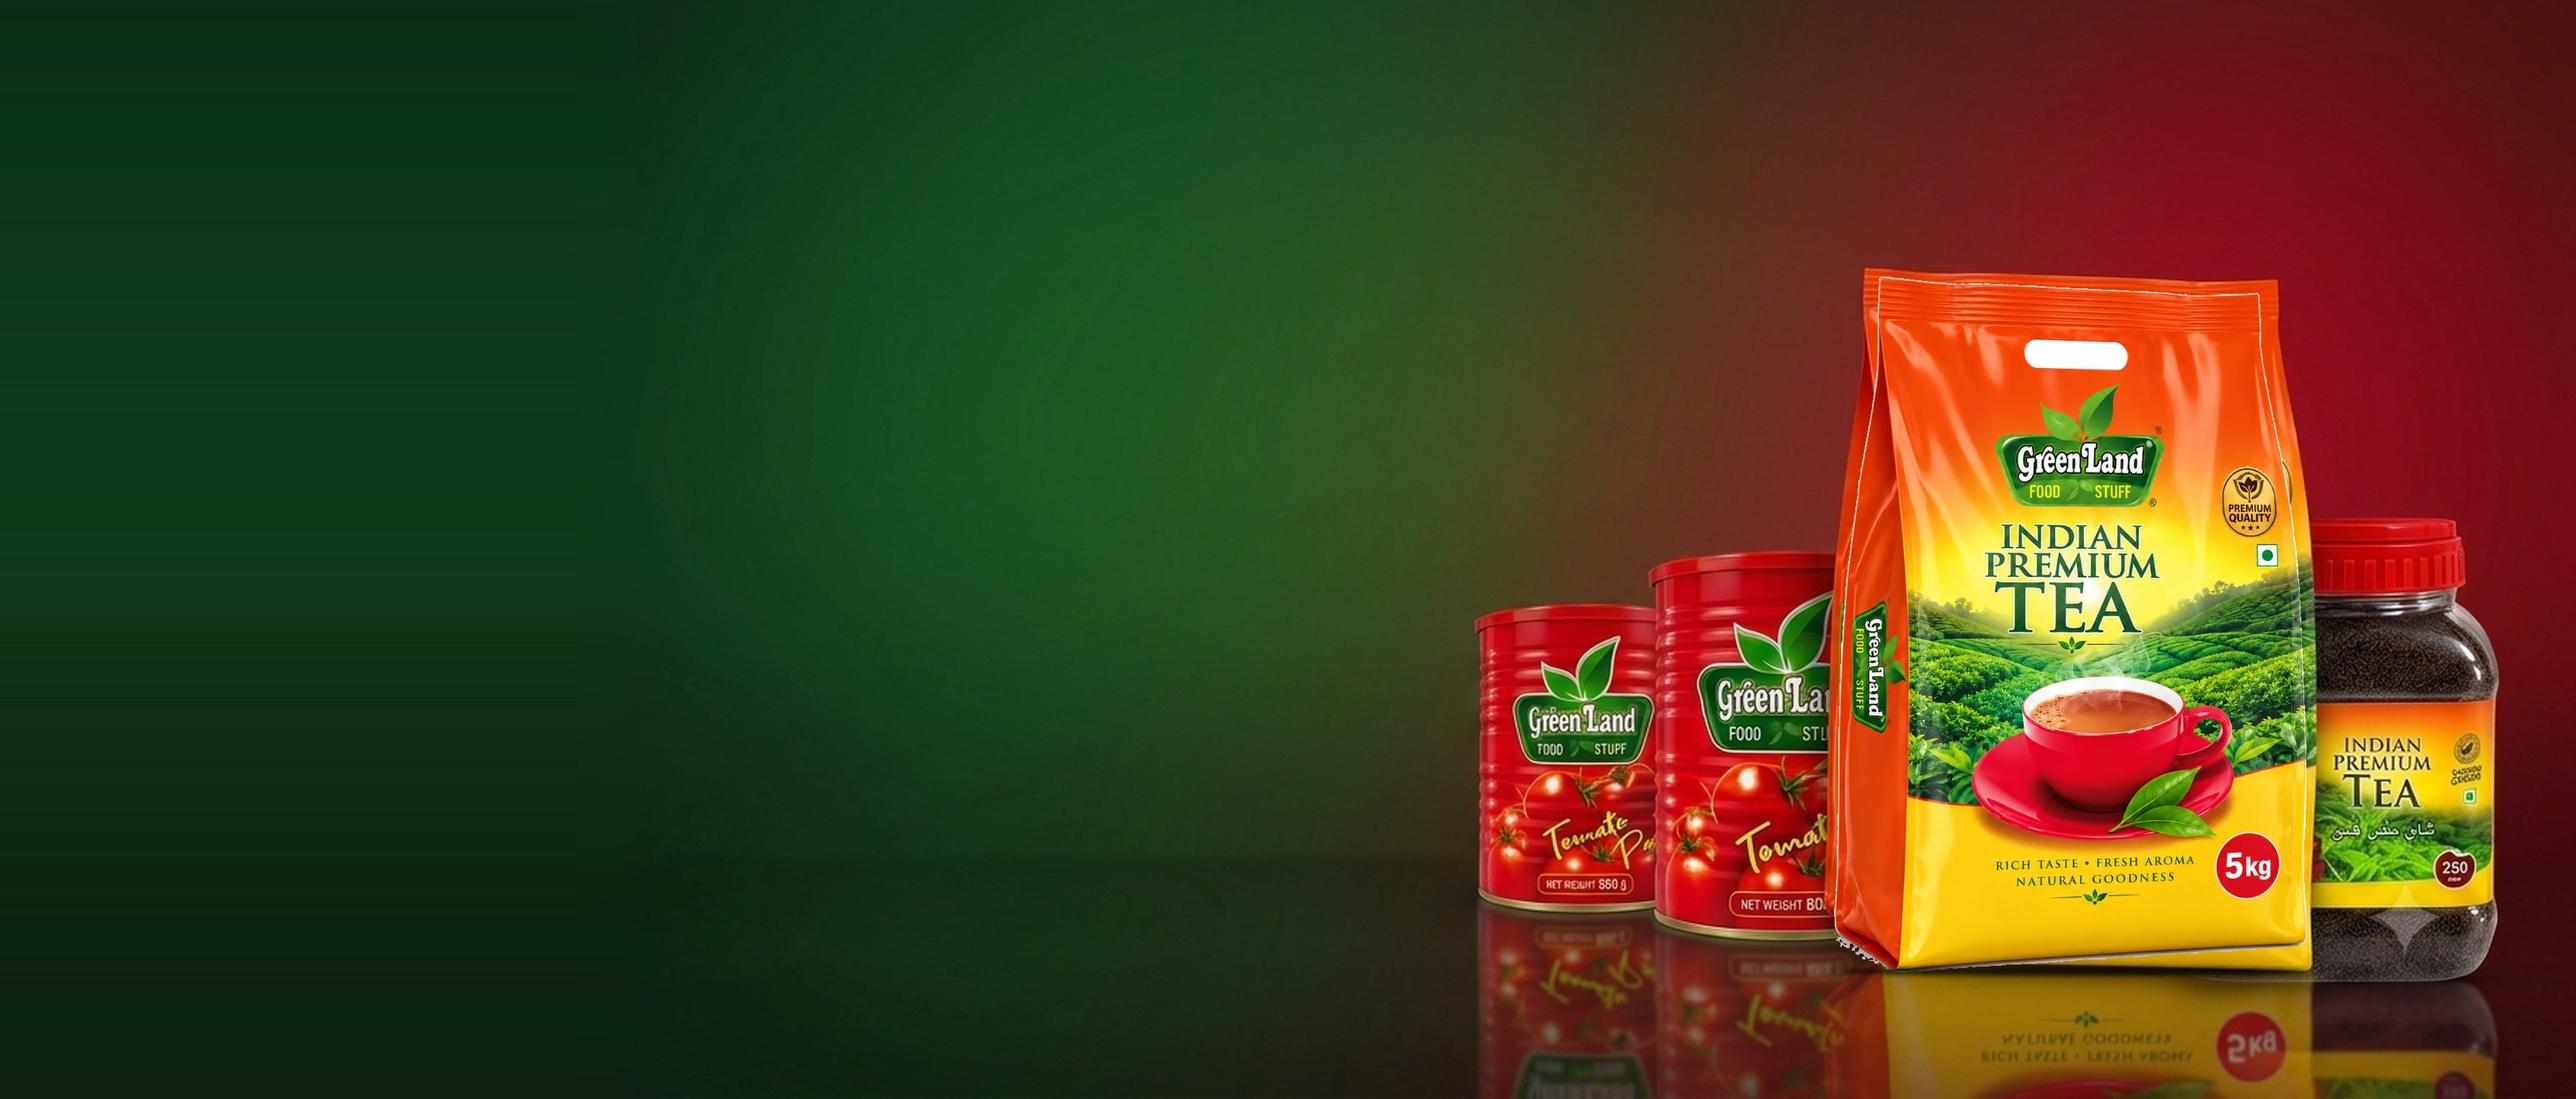
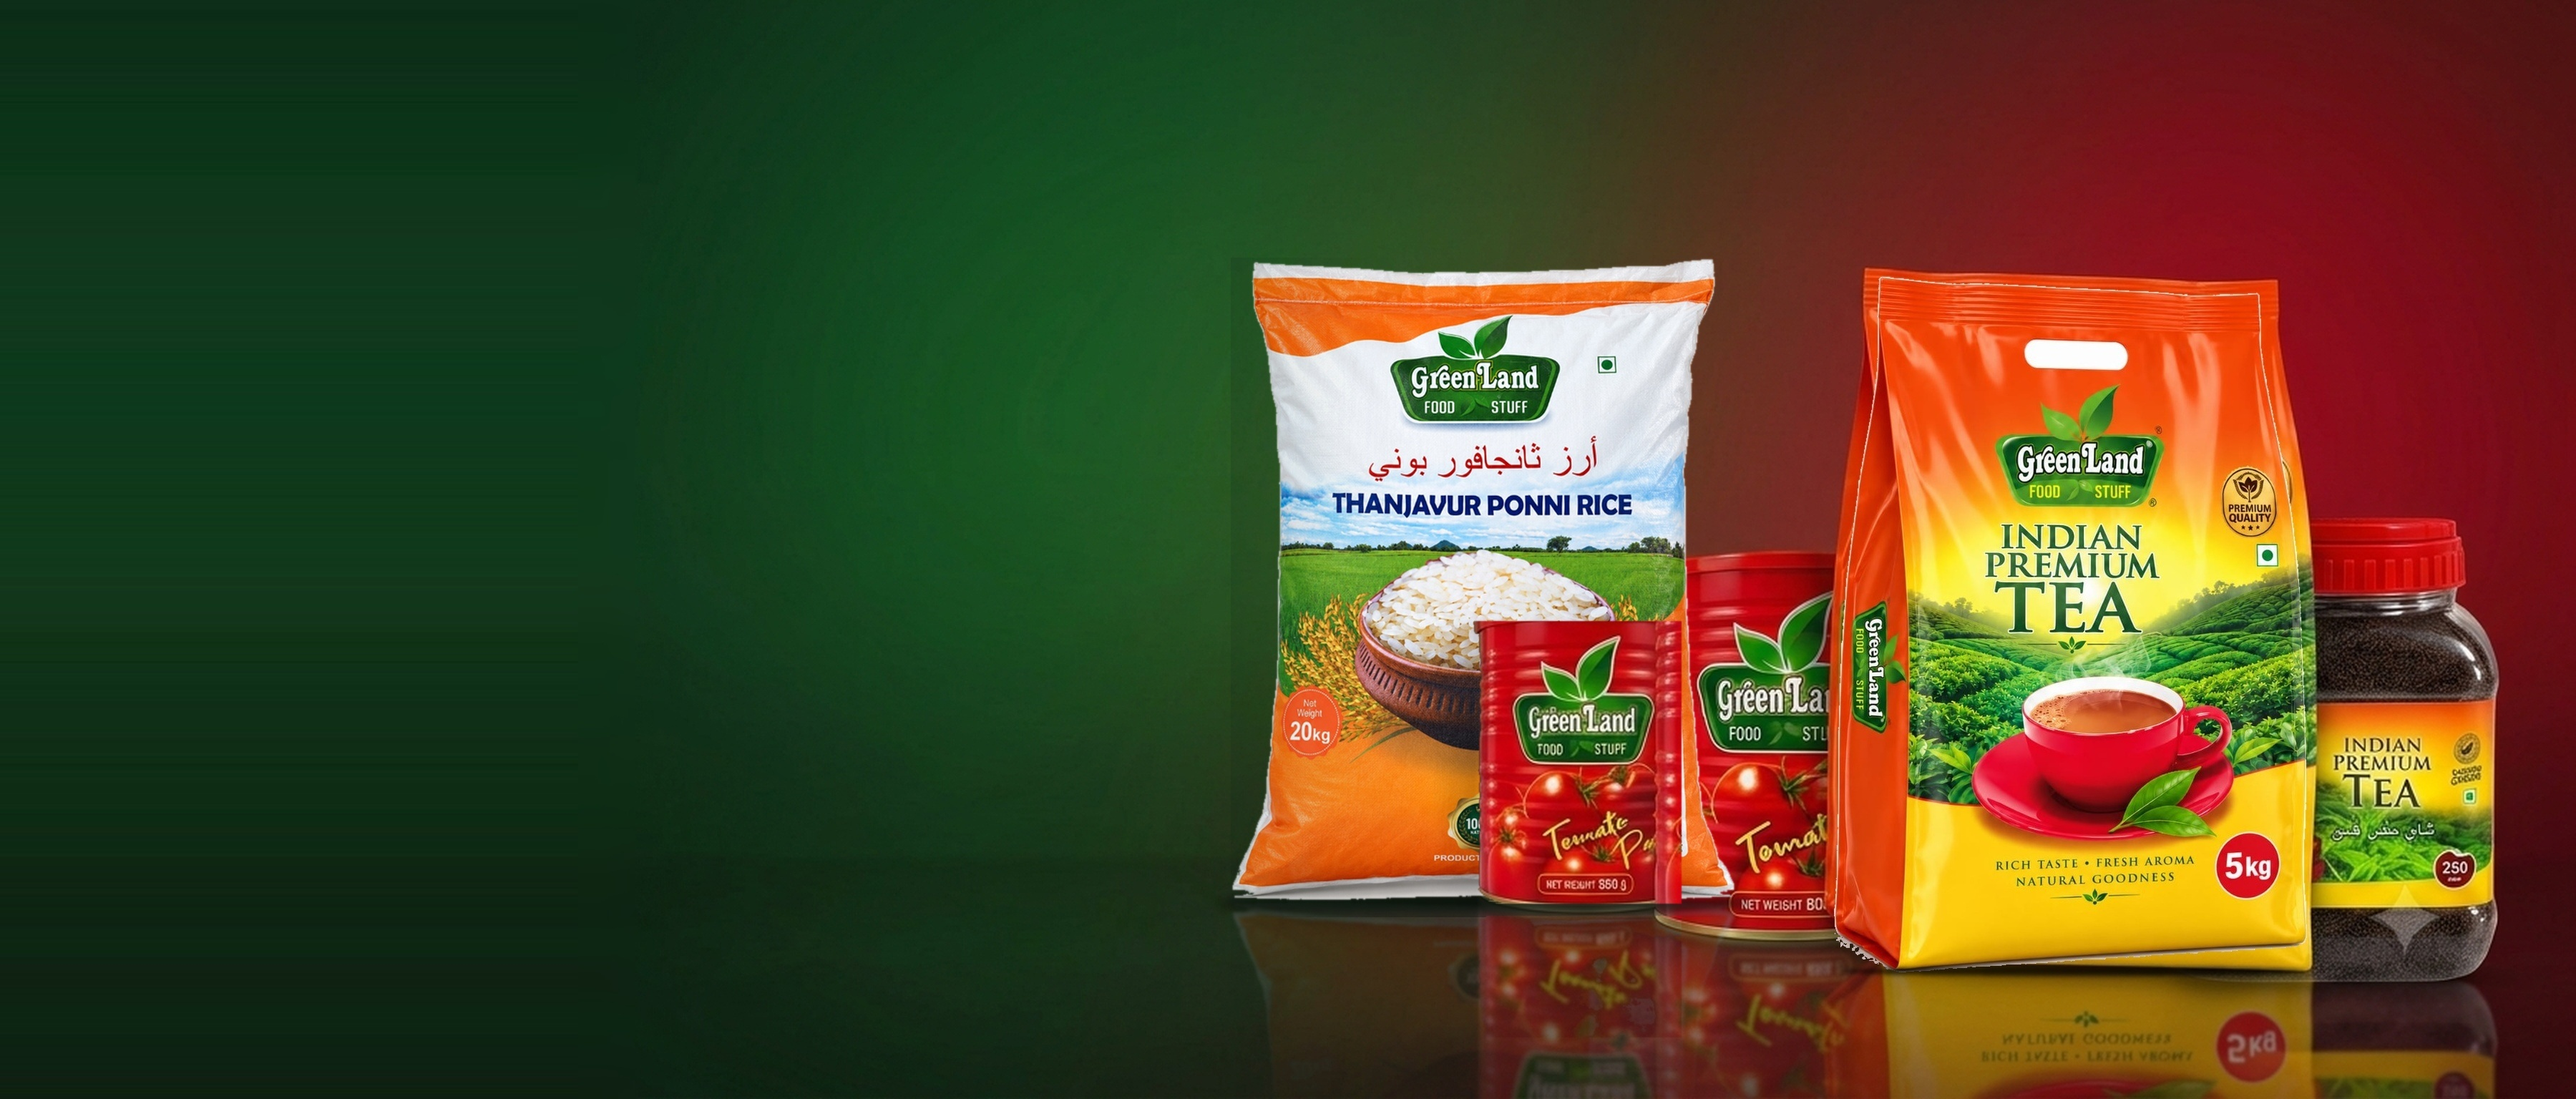
feat(home): add GreenLand rice sack to hero showcase with perfect alignment, reflections, and depth

Changed region(s): [[0.4667, 0.2188, 0.6844, 0.9062]]

diff --git a/templates/pages/home.html b/templates/pages/home.html
@@ -11,9 +11,9 @@
   <!-- ========================================================================= -->
   <section class="relative w-full h-[78vh] sm:h-[84vh] md:h-[88vh] min-h-[480px] xs:min-h-[520px] sm:min-h-[600px] max-h-[860px] bg-[#124A2E] overflow-hidden select-none">
 
-    <!-- Background Hero Image: Perfectly framed panoramic showcase (Tea Pouch headroom, cans & jar, reflective floor) -->
+    <!-- Background Hero Image: Perfectly framed panoramic showcase (Greenland Rice sack, cans, tea pouch & jar on reflective floor) -->
     <div class="absolute inset-0 bg-cover bg-no-repeat bg-scroll pointer-events-none"
-         style="background-image: url('{% static 'images/greenland-hero-products.jpg' %}?v=10'); background-position: right bottom; background-size: cover;">
+         style="background-image: url('{% static 'images/greenland-hero-products.jpg' %}?v=11'); background-position: right bottom; background-size: cover;">
       
       <!-- Contrast Overlay: Deep contrast on mobile for ultra-crisp typography, seamlessly fading on desktop (sm:) to leave right 55% products 100% vibrant -->
       <div class="absolute inset-0 bg-gradient-to-b from-black/85 via-[#0B351F]/75 to-black/90 sm:bg-gradient-to-r sm:from-black/75 sm:via-black/20 sm:via-42% sm:to-transparent"></div>
